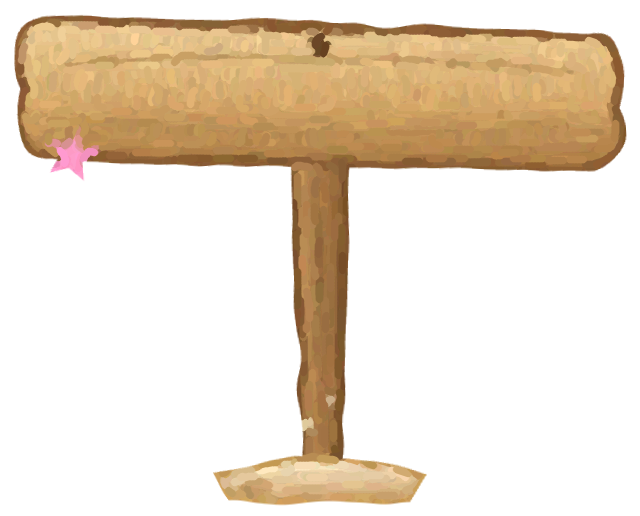
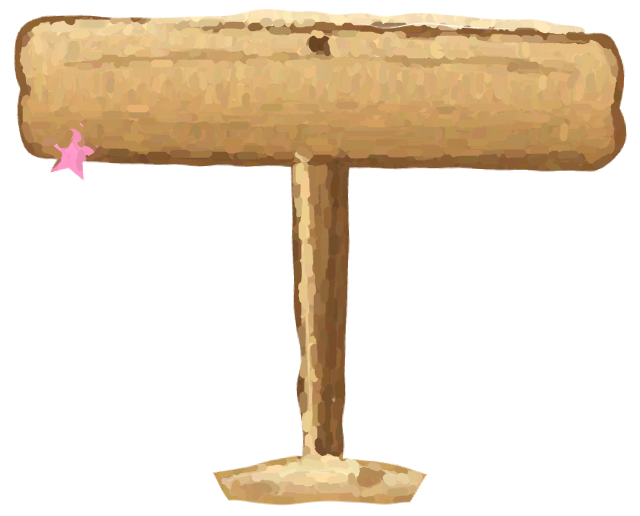
Map polish per Gemini pass + app-style home button + hot reload
Signposts: carved lettering (cream chisel under walnut ink), lighting
pass on the wood (top-left catch, shaded right edges), buried post bases
with sand lapping over the foot, contact shadows, the crab resting
against his post, Coral Reef sign moved to open sand with a starfish at
its base, and a cooled color grade for the Deep Sea sign with a painted
padlock hanging from a rope (the shiny vector lock is gone from the map).

Home button: the painted cottage is out; in its place a crisp Toca-style
circle in the tap-me orange with a white house glyph and a hard offset
shadow (Gemini wanted yellow; yellow is Daphne's color, so orange).

Hot reload: InjectionLite wired into Debug builds (pbxproj package ref,
-interposable, EMIT_FRONTEND_COMMAND_LINES) with an injection-triggered
root rebuild in RootView. Verified live: first injection warms caches,
then saves land in ~1s.

diff --git a/app/Mermath/Screens/ReefMapScreen.swift b/app/Mermath/Screens/ReefMapScreen.swift
@@ -73,12 +73,13 @@ struct ReefMapScreen: View {
                 .stage(x: 14, y: 40, w: 330, h: 230)
                 GlowPulse(t: t)
                     .stage(x: 86, y: 116, w: 150, h: 56)
+                // Sign first, crab after: his claw rests against the post
+                SignPost(name: "Tide Pool", w: 126, t: t, scale: s, tilt: 2)
+                    .stage(x: 196, y: 64, w: 126, h: 102)
                 CrabView(t: t, scale: s, blinkCycle: 5.1, bobTo: -3)
                     .frame(width: 76 * s, height: 64 * s)
                     .allowsHitTesting(false)
                     .stage(x: 182, y: 84, w: 76, h: 64)
-                SignPost(name: "Tide Pool", w: 126, t: t, scale: s, tilt: 3.5)
-                    .stage(x: 246, y: 84, w: 126, h: 102)
 
                 // Coral Reef on the mid-water ledge: the picked sister floats
                 // over the coral, her sign planted in the seagrass where the
@@ -94,8 +95,11 @@ struct ReefMapScreen: View {
                     .frame(width: 158 * s, height: 181 * s)
                     .allowsHitTesting(false)
                     .stage(x: 388, y: 220, w: 158, h: 181)
-                SignPost(name: "Coral Reef", w: 140, t: t, scale: s, tilt: 2, delay: -0.9)
-                    .stage(x: 248, y: 316, w: 140, h: 113)
+                SignPost(name: "Coral Reef", w: 140, t: t, scale: s, tilt: -2, delay: -0.9)
+                    .stage(x: 252, y: 352, w: 140, h: 113)
+                ArtImage("props/sea-star-pink.png")
+                    .allowsHitTesting(false)
+                    .stage(x: 328, y: 446, w: 26, h: 24)
 
                 // Deep Sea, down the cliff in the dark corner: the padlock
                 // hangs on its sign until two clean dives open it
@@ -107,15 +111,16 @@ struct ReefMapScreen: View {
                     .stage(x: 602, y: 390, w: 174, h: 186)
                     GlowPulse(t: t, delay: -0.4)
                         .stage(x: 630, y: 468, w: 166, h: 80)
-                    SignPost(name: "Deep Sea", w: 140, t: t, scale: s, tilt: -2, delay: -1.7)
+                    SignPost(name: "Deep Sea", w: 140, t: t, scale: s, tilt: -2, delay: -1.7, cool: true)
                         .stage(x: 628, y: 406, w: 140, h: 113)
                 } else {
-                    SignPost(name: "Deep Sea", w: 140, t: t, scale: s, tilt: -2, delay: -1.7, locked: true)
+                    SignPost(name: "Deep Sea", w: 140, t: t, scale: s, tilt: -2, delay: -1.7, locked: true, cool: true)
                         .stage(x: 628, y: 406, w: 140, h: 113)
-                    ArtImage("ui/padlock.png")
-                        .shadow(color: Tokens.Palette.midnight.opacity(0.5), radius: 4 * s, y: 4 * s)
+                    // The painted padlock hangs from its rope over the plank
+                    ArtImage("props/padlock-rope.png")
+                        .shadow(color: Tokens.Palette.midnight.opacity(0.45), radius: 4 * s, y: 4 * s)
                         .allowsHitTesting(false)
-                        .stage(x: 678, y: 428, w: 42, h: 54)
+                        .stage(x: 679, y: 434, w: 38, h: 68)
                 }
 
                 Vignette()
@@ -162,24 +167,41 @@ private struct SignPost: View {
     var tilt: Double = 0
     var delay: Double = 0
     var locked = false
+    /// Deep-water color grade: cools and darkens the wood to sit at depth.
+    var cool = false
 
     var body: some View {
         let h = w * 258 / 320
+        let ink = Color(hex: cool ? 0x2E2418 : 0x4A2C12)
         ZStack {
+            // Contact shadow cast to the bottom-right (light from upper left)
+            Ellipse()
+                .fill(Tokens.Palette.midnight.opacity(cool ? 0.4 : 0.26))
+                .blur(radius: 3.5 * scale)
+                .frame(width: w * 0.5 * scale, height: h * 0.08 * scale)
+                .position(x: w * 0.6 * scale, y: h * 0.955 * scale)
             ArtImage("props/sign.png")
                 .frame(width: w * scale, height: h * scale)
-            Text(name)
-                .font(baloo(21, weight: 700, scale: scale))
-                .foregroundStyle(Color(hex: 0x5A3418).opacity(locked ? 0.55 : 0.92))
-                .lineLimit(1)
-                .minimumScaleFactor(0.65)
-                .frame(width: w * 0.76 * scale)
-                .position(x: w * 0.5 * scale, y: h * 0.19 * scale)
+                .colorMultiply(cool ? Color(hex: 0xAEBACF) : .white)
+            // Carved lettering: a light chisel catch under the walnut ink
+            ZStack {
+                carvedText.foregroundStyle(Color(hex: 0xF7E7C0).opacity(cool ? 0.4 : 0.75))
+                    .offset(y: 1.6 * scale)
+                carvedText.foregroundStyle(ink.opacity(locked ? 0.65 : 0.95))
+            }
+            .frame(width: w * 0.76 * scale)
+            .position(x: w * 0.5 * scale, y: h * 0.19 * scale)
         }
         .frame(width: w * scale, height: h * scale)
         .rotationEffect(.degrees(tilt), anchor: .bottom)
         .scaleEffect(Wave.alternate(t, from: 1.0, to: 1.03, duration: 2.6, delay: delay), anchor: .bottom)
-        .shadow(color: Tokens.Palette.midnight.opacity(0.3), radius: 5 * scale, y: 4 * scale)
         .allowsHitTesting(false)
+    }
+
+    private var carvedText: some View {
+        Text(name)
+            .font(baloo(21, weight: 700, scale: scale))
+            .lineLimit(1)
+            .minimumScaleFactor(0.65)
     }
 }

diff --git a/app/Mermath/Components/Panels.swift b/app/Mermath/Components/Panels.swift
@@ -70,17 +70,30 @@ struct SolvedPanel: View {
     }
 }
 
-/// The little painted shell-roofed house, back to the home (pick) screen:
-/// the corner home button every kids' game uses, no words needed.
+/// The corner home button every kids' game uses: a chunky geometric circle in
+/// the tap-me orange with a plain white house glyph and a hard offset shadow,
+/// deliberately crisp UI against the painted world behind it.
 struct HomeButton: View {
     let scale: CGFloat
     let action: () -> Void
 
     var body: some View {
         Button(action: action) {
-            ArtImage("ui/icon-home.png")
-                .frame(width: 56 * scale, height: 68 * scale)
-                .shadow(color: Tokens.Palette.midnight.opacity(0.4), radius: 4 * scale, y: 5 * scale)
+            ZStack {
+                Circle()
+                    .fill(Color(hex: 0xC9641A))
+                    .offset(y: 5 * scale)
+                Circle()
+                    .fill(Color(hex: 0xFF9A3D))
+                Circle()
+                    .strokeBorder(.white.opacity(0.85), lineWidth: 3 * scale)
+                    .padding(3.5 * scale)
+                Image(systemName: "house.fill")
+                    .font(.system(size: 30 * scale, weight: .bold))
+                    .foregroundStyle(.white)
+                    .offset(y: -1.5 * scale)
+            }
+            .frame(width: 72 * scale, height: 72 * scale)
         }
         .buttonStyle(.plain)
     }

diff --git a/app/Mermath/App/RootView.swift b/app/Mermath/App/RootView.swift
@@ -4,8 +4,24 @@ import SwiftUI
 /// can swipe to escape. Cross-dissolves between screens.
 struct RootView: View {
     @State private var model = AppModel()
+    #if DEBUG
+    /// Hot reload (InjectionLite): bumping this id rebuilds the whole view
+    /// tree with the freshly injected implementations.
+    @State private var injectionTick = 0
+    #endif
 
     var body: some View {
+        stage
+            #if DEBUG
+            .id(injectionTick)
+            .onReceive(NotificationCenter.default.publisher(
+                for: Notification.Name("INJECTION_BUNDLE_NOTIFICATION"))) { _ in
+                injectionTick += 1
+            }
+            #endif
+    }
+
+    private var stage: some View {
         StageView {
             switch model.route {
             case .intro:

diff --git a/art-pipeline/scenes_v2.py b/art-pipeline/scenes_v2.py
@@ -736,8 +736,29 @@ def scene_props_layers():
           f'L536 292 C548 290 554 276 548 262 C554 244 548 228 536 226 Z" fill="{wood}" stroke="#8a6038" stroke-width="4.5"/>'
           f'<path d="M272 240 C340 234 470 236 528 244 M280 268 C350 274 460 276 522 270" '
           f'fill="none" stroke="#b08a54" stroke-width="3.5" opacity=".6"/>'
+          # light from the upper left: warm catch along the plank top and the
+          # post's left edge, cool shade along the bottom-right edges
+          f'<path d="M266 223 C330 217 470 215 530 223" fill="none" stroke="#f7e0ae" stroke-width="5" stroke-linecap="round" opacity=".85"/>'
+          f'<path d="M270 283 C340 289 468 290 532 286" fill="none" stroke="#6a4828" stroke-width="4" stroke-linecap="round" opacity=".5"/>'
+          f'<path d="M391 288 L396 438" stroke="#f2d49c" stroke-width="6" stroke-linecap="round" opacity=".9"/>'
+          f'<path d="M408 288 L403 440" stroke="#5e3e22" stroke-width="6" stroke-linecap="round" opacity=".6"/>'
+          # bury the base: chunky sand strokes lapping over the post's foot
+          f'<path d="M376 442 Q400 430 424 442 Q412 450 400 449 Q388 450 376 442 Z" fill="#edd4a0"/>'
+          f'<path d="M380 446 q10 -6 20 -2 M402 444 q9 -3 17 2" fill="none" stroke="#f7e6ba" stroke-width="5" stroke-linecap="round"/>'
+          f'<ellipse cx="424" cy="448" rx="8" ry="5" fill="#b98f5c"/>'
           f'<circle cx="400" cy="231" r="4.5" fill="#6a4828"/>'
           f'<polygon points="{star(276, 286, 14, 6.2, -78)}" fill="#ff9ecb"/>')
+    # A painted padlock on a rope, to hang over a locked sign's plank edge
+    # (replaces the shiny vector padlock there).
+    s.layer('padlock2')
+    s.add(f'<path d="M366 130 L410 130" stroke="#e2cba2" stroke-width="9" stroke-linecap="round"/>'
+          f'<path d="M368 134 C372 158 378 174 386 192 M406 134 C400 158 394 176 388 192" '
+          f'fill="none" stroke="#e2cba2" stroke-width="9" stroke-linecap="round"/>'
+          f'<path d="M371 196 V180 a16 16 0 0 1 32 0 V196" fill="none" stroke="#e0aa42" stroke-width="9" stroke-linecap="round"/>'
+          f'<path d="M371 196 V180 a16 16 0 0 1 32 0 V196" fill="none" stroke="#fff0b0" stroke-width="3" stroke-linecap="round" opacity=".7"/>'
+          f'<rect x="358" y="194" width="58" height="48" rx="10" fill="{gold}" stroke="#a86a14" stroke-width="2.5"/>'
+          f'<circle cx="387" cy="212" r="6" fill="#3a1a0a"/><path d="M383.5 213 L390.5 213 L388.5 228 L385.5 228 Z" fill="#3a1a0a"/>'
+          f'<ellipse cx="372" cy="202" rx="9" ry="4" fill="#ffffff" opacity=".5"/>')
     roofg = s.lin([(0, '#ffb3d4', 1), (1, '#e85d8a', 1)])
     wallg = s.lin([(0, '#fff6e0', 1), (1, '#f0d8a8', 1)])
     s.layer('icon_home')
@@ -750,7 +771,7 @@ def scene_props_layers():
     return {name: s.svg_layer(name) for name in (
         'lock', 'afish', 'afish_face', 'whale', 'whale_face',
         'whale_face_uhoh', 'hoard_left', 'hoard_right', 'hoard_floor', 'hoard_strings',
-        'fgfan_a', 'fgfan_b', 'bigmap', 'digmound', 'digx', 'sign', 'icon_home')}
+        'fgfan_a', 'fgfan_b', 'bigmap', 'digmound', 'digx', 'sign', 'icon_home', 'padlock2')}
 
 from frame import scene_home_layers
 
@@ -775,5 +796,5 @@ SCENES2 = {
                                        hoard_floor='prop', hoard_strings='vector',
                                        fgfan_a='fg', fgfan_b='fg', bigmap='prop',
                                        digmound='prop', digx='vector',
-                                       sign='prop', icon_home='prop')),
+                                       sign='prop', icon_home='prop', padlock2='prop')),
 }

diff --git a/CLAUDE.md b/CLAUDE.md
@@ -57,6 +57,6 @@ The design space is 800x600 (4:3, landscape), which scales cleanly to a tablet. 
 - `assets/characters/`: the three sisters and the crab, as stackable pieces.
 - `assets/props/`, `assets/ui/`, `assets/brand/`, `assets/fonts/`: small painted objects, icons, the wordmark and app icon, Baloo 2.
 - `design/tokens.json` and `design/tokens.css`: palette, type, spacing and motion values.
-- `app/`: the shipped native iPad app (SwiftUI), built from this handoff. `tools/sync-art.sh` copies `assets/` into its bundle; `tools/make-voice.py` generates the spoken prompts.
+- `app/`: the shipped native iPad app (SwiftUI), built from this handoff. `tools/sync-art.sh` copies `assets/` into its bundle; `tools/make-voice.py` generates the spoken prompts. Debug builds hot-reload Swift edits into the running simulator (InjectionLite: save a file, ~1s, watch the app console for 🔥) — rebuild only for new files, assets, or stored-property changes.
 - `reference/storyboard/`: the original storyboard source files, with `blob-map.json` mapping their image ids to files in `assets/`.
 - `art-pipeline/`: the scripts that draw and paint everything.
